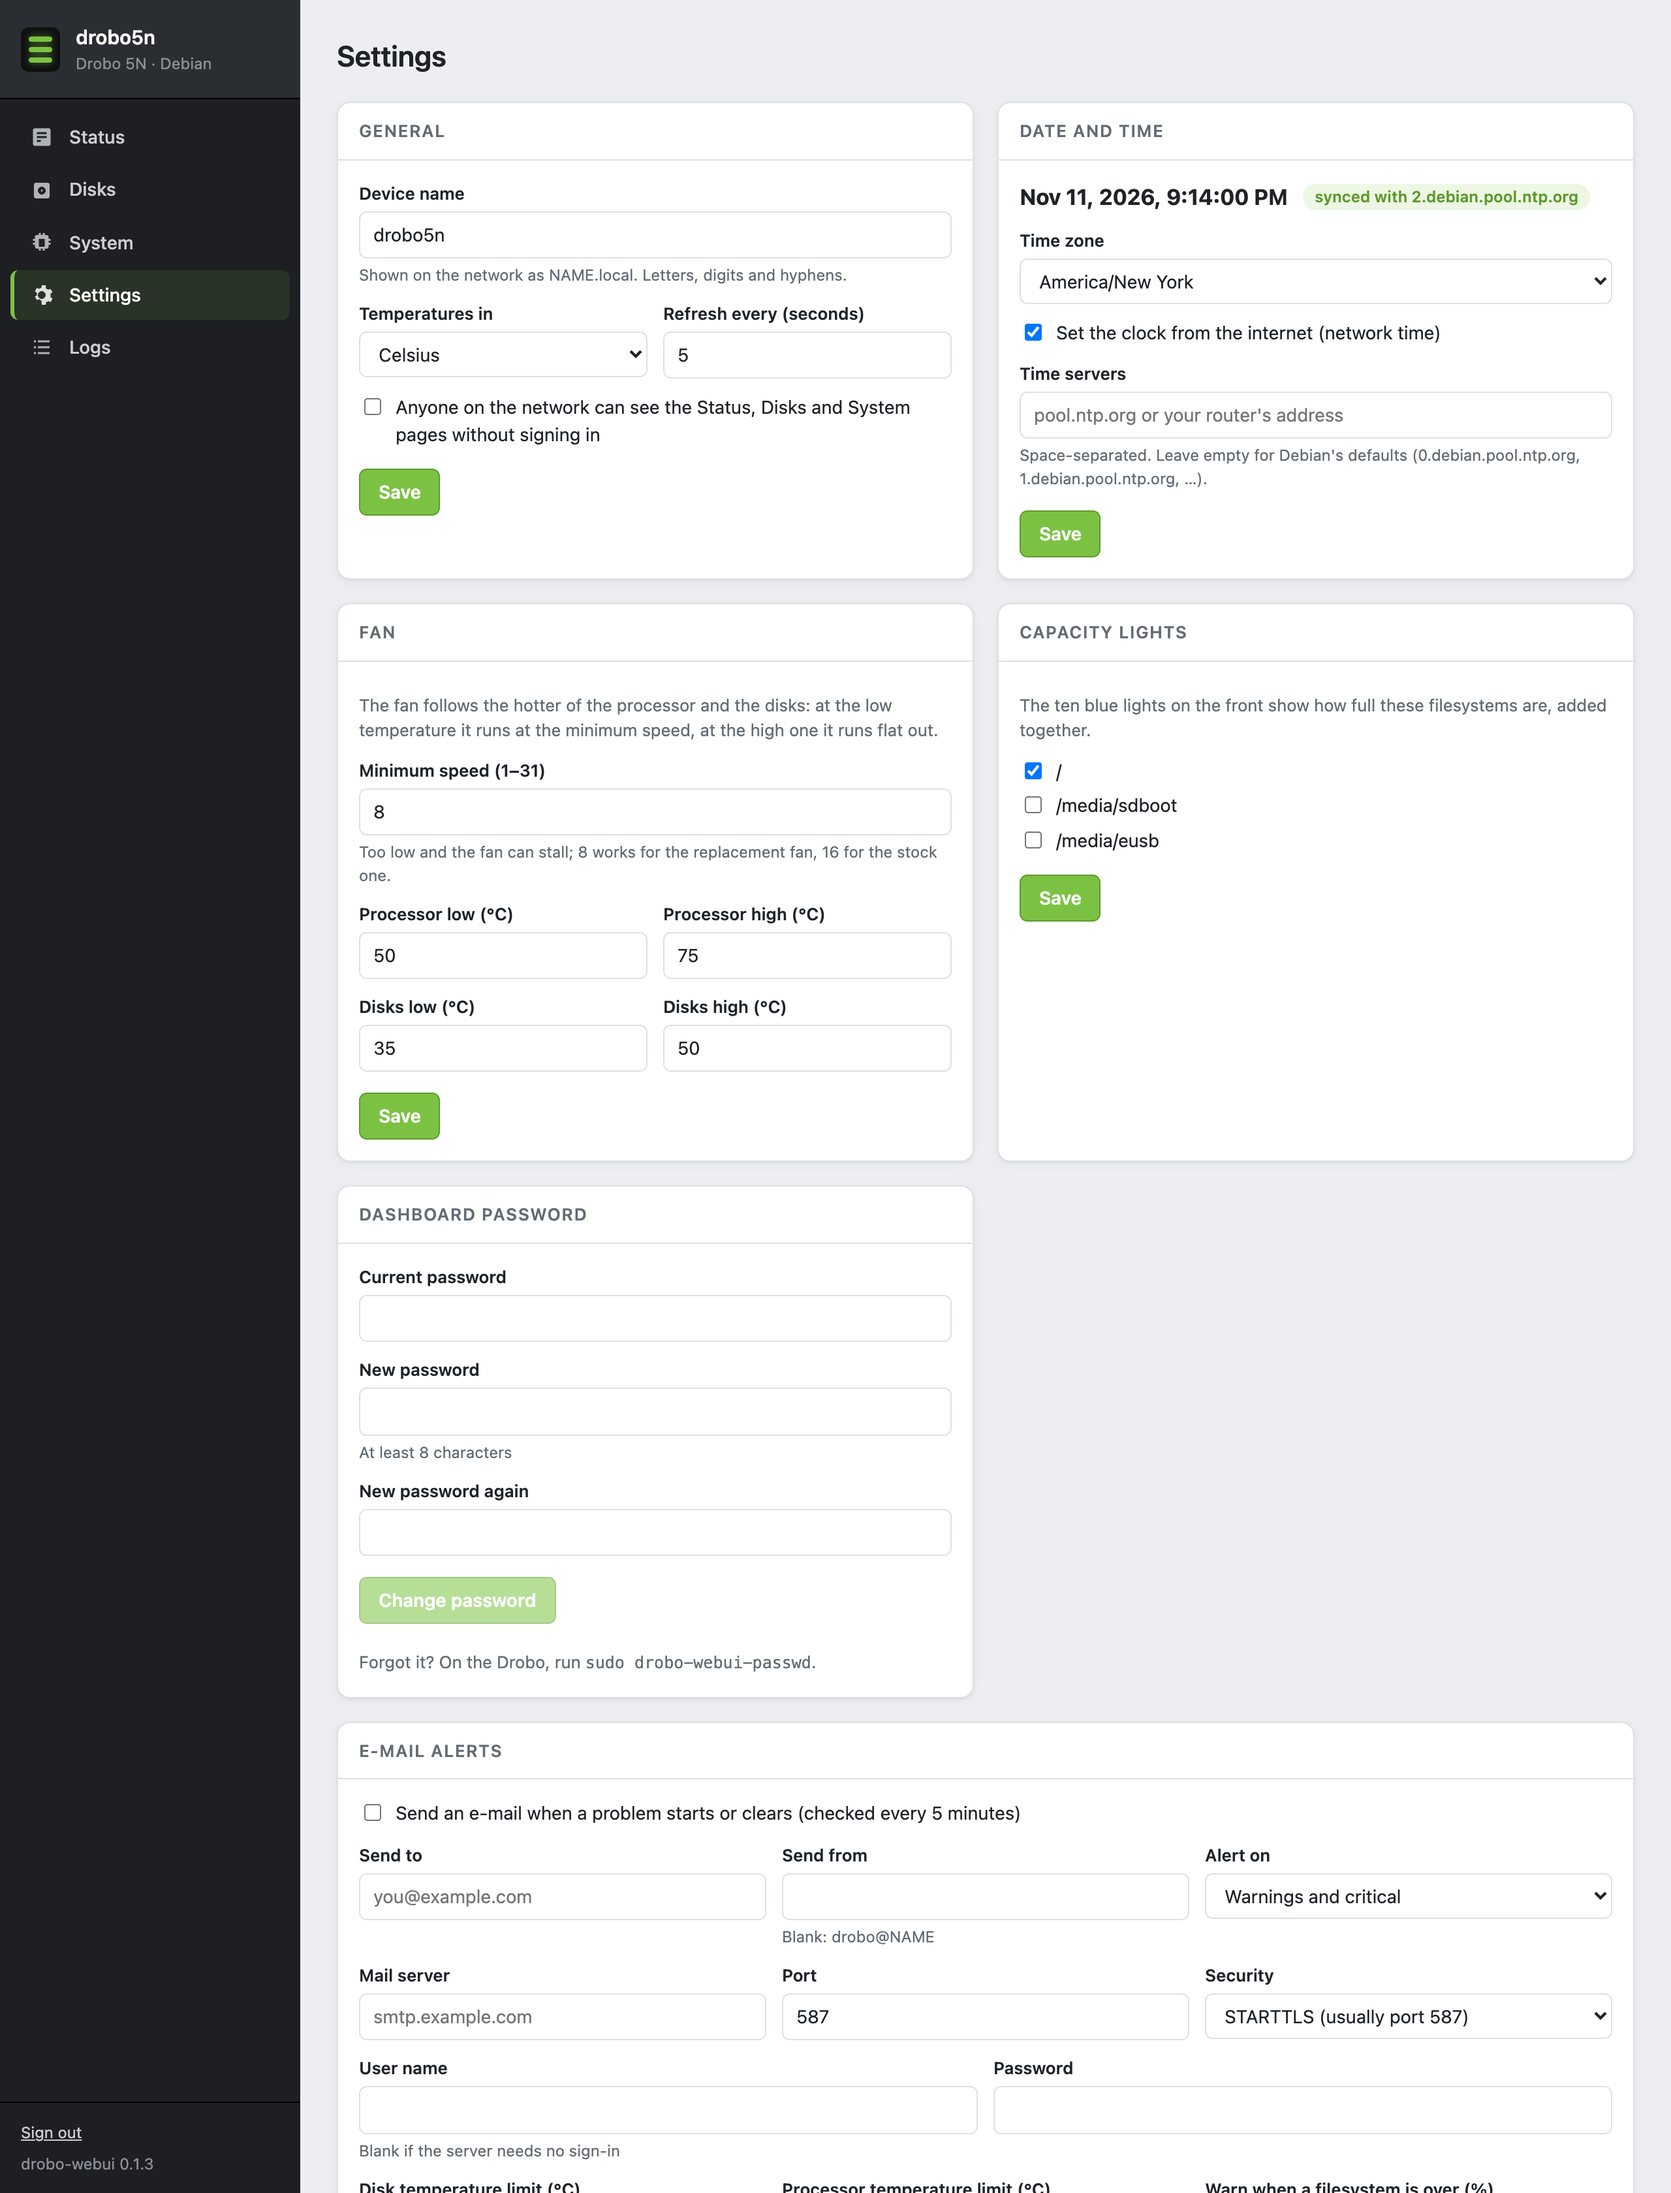
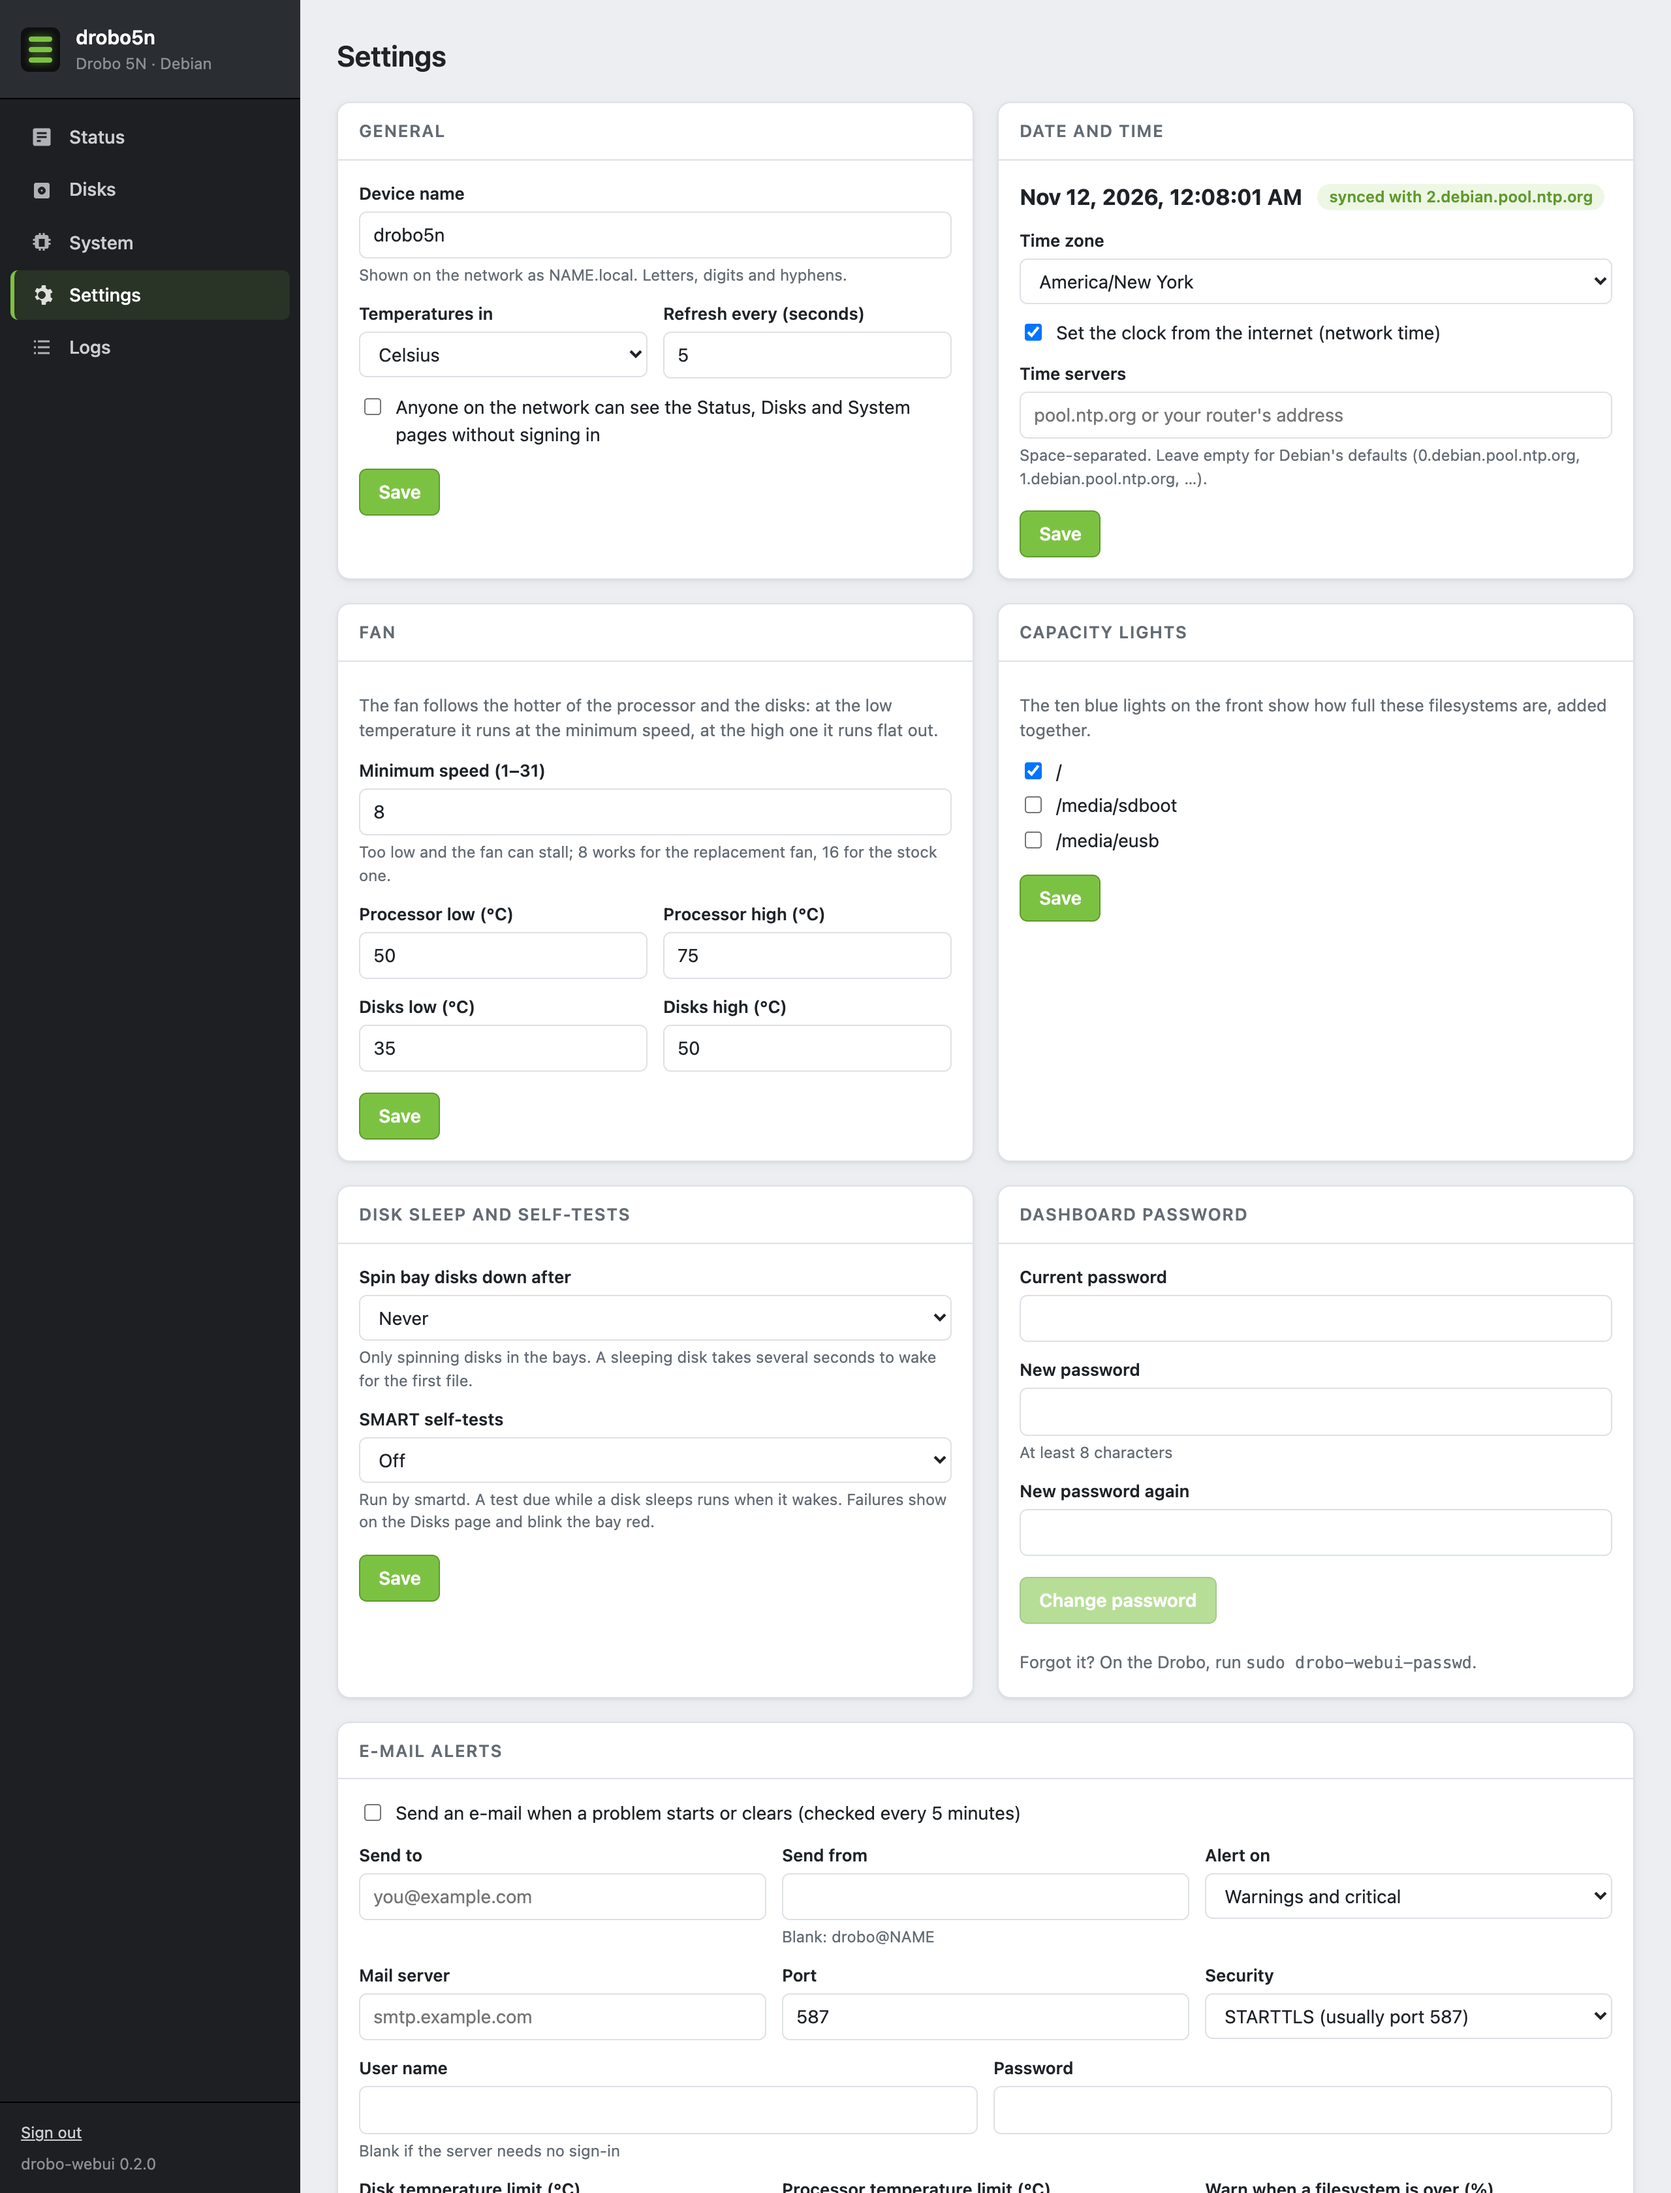
webui 0.2.0: disk sleep, SMART test schedule, software updates; fix free space on 32-bit PHP
Tested on the board: disk settings round-trip, apt check runs in the background,
alert check marks no bays with no bay disks.

diff --git a/webui/lib/Privileged.php b/webui/lib/Privileged.php
@@ -405,6 +405,8 @@ final class Privileged
     // --- software updates ------------------------------------------------------
 
     public const APT_UNIT = 'drobo-webui-apt';
+    /** Touched after each successful "Check now": apt leaves unchanged lists with their old dates. */
+    public const APT_STAMP = VAR_DIR . '/apt-checked';
 
     /** What apt would upgrade, from the package lists as they are (no download). */
     public static function updatesInfo(): array
@@ -417,7 +419,8 @@ final class Privileged
             }
         }
         $lists = glob('/var/lib/apt/lists/*_InRelease') ?: [];
-        $checked = $lists ? max(array_map('filemtime', $lists)) : null;
+        $stamps = array_merge(array_map('filemtime', $lists), is_file(self::APT_STAMP) ? [filemtime(self::APT_STAMP)] : []);
+        $checked = $stamps ? max($stamps) : null;
         $state = Shell::out(['systemctl', 'is-active', self::APT_UNIT . '.service']);
         [, $log] = Shell::run(['journalctl', '--no-pager', '-o', 'cat', '-n', '15', '-u', self::APT_UNIT . '.service']);
         $kernels = array_map('basename', glob('/lib/modules/*') ?: []);
@@ -429,7 +432,7 @@ final class Privileged
             'running' => in_array($state, ['active', 'activating', 'reloading'], true),
             'log' => trim((string) $log),
             'rebootNeeded' => is_file('/run/reboot-required') || ($kernels && end($kernels) !== $running),
-            'freeMB' => intdiv((int) disk_free_space('/'), 1048576),
+            'freeMB' => (int) floor((float) disk_free_space('/') / 1048576),   // a float: PHP ints are 32-bit on armhf
         ];
     }
 
@@ -440,7 +443,7 @@ final class Privileged
         in_array($info, ['active', 'activating'], true) && throw new \RuntimeException('An update is already running');
         $apt = ['apt-get', '-q', '-y', '-o', 'Dpkg::Options::=--force-confdef', '-o', 'Dpkg::Options::=--force-confold'];
         $argv = match ($what) {
-            'check' => ['apt-get', '-q', 'update'],
+            'check' => ['apt-get', '-q', '-o', 'APT::Update::Post-Invoke-Success::=touch ' . self::APT_STAMP, 'update'],
             'install' => array_merge($apt, ['upgrade']),
             default => throw new \InvalidArgumentException('updates check|install'),
         };

diff --git a/webui/README.md b/webui/README.md
@@ -28,17 +28,21 @@ It needs about 25 MB with its dependencies (lighttpd, PHP). On a system running 
   - E-mail alerts through any SMTP server (STARTTLS, SSL or plain), with a test button.
   - Temperature unit, refresh rate, and an option to let anyone on the network see the status pages without signing in.
   - Dashboard password.
+  - Disk sleep: spin the bay disks down after 10 minutes to 2 hours idle (a udev rule that runs `hdparm -S`, so it also covers disks inserted later).
+  - SMART self-tests: off, a short test every Sunday, or that plus a long test on the 1st of the month (the `-s` schedule on smartd's `DEVICESCAN` line in `/etc/smartd.conf`, which keeps a `.bak`).
+  - Software updates: how many updates are waiting and which are security fixes, "Check now" (`apt-get update`), and "Install updates" (`apt-get upgrade`, keeping your config files). Both run in the background as `drobo-webui-apt`, and the card shows the output. It says when a new kernel needs a restart.
   - Restart and shut down.
 - **Logs:** the journal for the kit's services, SSH, Samba and the kernel.
 - **Alerts:** a timer runs every 5 minutes and mails a problem once when it starts and once when it clears. It covers a failing SMART check, bad sectors, hot disks or processor, a full filesystem, a degraded RAID array, a failed bay, failed services, a low backup battery, a sagging power input, and running on battery.
+  A disk that fails its SMART health check also gets its bay light blinking red: the check writes the bay to `/run/drobo-leds/failed-bays`. It only adds and removes the bays it marked itself, so a bay you list there by hand stays.
 
 ## Install
 
-Download the package from the [releases page](https://github.com/georgestephanis/drobo-5n/releases/tag/webui-v0.1.3), or build it yourself (see [Building](#building)). Then, on the Drobo with the kit already installed:
+Download the package from the [releases page](https://github.com/georgestephanis/drobo-5n/releases/tag/webui-v0.2.0), or build it yourself (see [Building](#building)). Then, on the Drobo with the kit already installed:
 
 ```sh
-wget https://github.com/georgestephanis/drobo-5n/releases/download/webui-v0.1.3/drobo-webui_0.1.3_all.deb
-sudo apt install ./drobo-webui_0.1.3_all.deb
+wget https://github.com/georgestephanis/drobo-5n/releases/download/webui-v0.2.0/drobo-webui_0.2.0_all.deb
+sudo apt install ./drobo-webui_0.2.0_all.deb
 sudo drobo-webui-passwd          # set the dashboard password
 ```
 

diff --git a/README.md b/README.md
@@ -251,7 +251,7 @@ cat /sys/class/hwmon/hwmon*/temp1_input  # SoC (and disk) temperatures, millideg
 
   After the reboot, `findmnt /` should show `/dev/sda1`, `findmnt /boot` should show `/dev/sdb1[/boot]`, and the console should print `DROBO: boot files from the SSD`. Tested on 11 Nov with a 64 GB mSATA SSD: reboot to SSH went from 154 s to 79 s. Hiding the SSD's copy made it fall back to the stick (157 s), and the next `drobo-boot-ok` rebuilt the copy. A new set went through its trial boot from the SSD. If you stay on the stick instead: no swap, `noatime` (the installer's default), and consider `Storage=volatile` in `/etc/systemd/journald.conf`.
 
-- **Web dashboard (optional).** [`webui/`](webui/) is a separate package, `drobo-webui`, with a browser dashboard in the spirit of Drobo Dashboard. It covers bays and the front panel, capacity, SMART, temperatures and the fan, network and services, logs, and e-mail alerts. It also has settings for the device name, the fan curve, the capacity lights, bay power, and restart or shut down. It takes about 25 MB with lighttpd and PHP, and nothing else in the kit needs it, so skip it on a stick-only install. Download it from [the webui-v0.1.3 release](https://github.com/georgestephanis/drobo-5n/releases/tag/webui-v0.1.3), and see [`webui/README.md`](webui/README.md).
+- **Web dashboard (optional).** [`webui/`](webui/) is a separate package, `drobo-webui`, with a browser dashboard in the spirit of Drobo Dashboard. It covers bays and the front panel, capacity, SMART, temperatures and the fan, network and services, logs, and e-mail alerts. It also has settings for the device name, the fan curve, the capacity lights, bay power, disk sleep, the SMART self-test schedule, software updates, and restart or shut down. It takes about 25 MB with lighttpd and PHP, and nothing else in the kit needs it, so skip it on a stick-only install. Download it from [the webui-v0.2.0 release](https://github.com/georgestephanis/drobo-5n/releases/tag/webui-v0.2.0), and see [`webui/README.md`](webui/README.md).
 
   ![drobo-webui status page](webui/screenshots/status.png)
 
